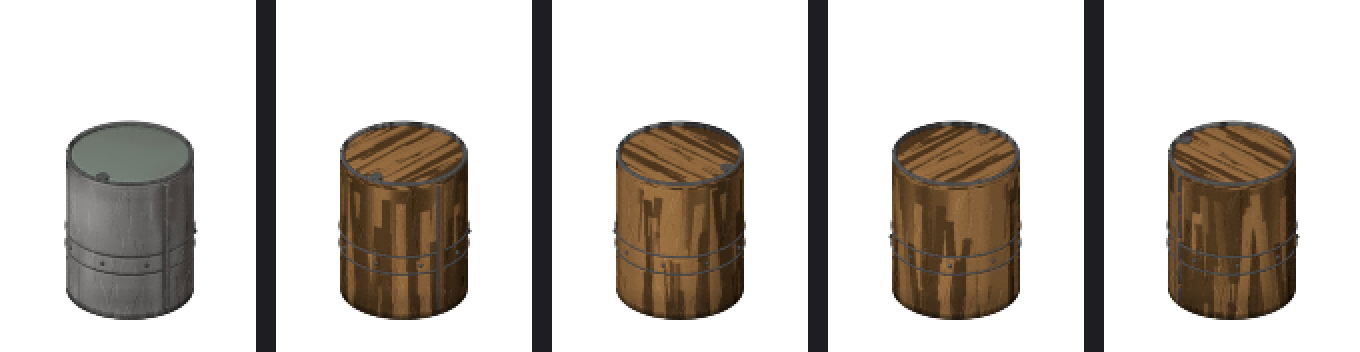
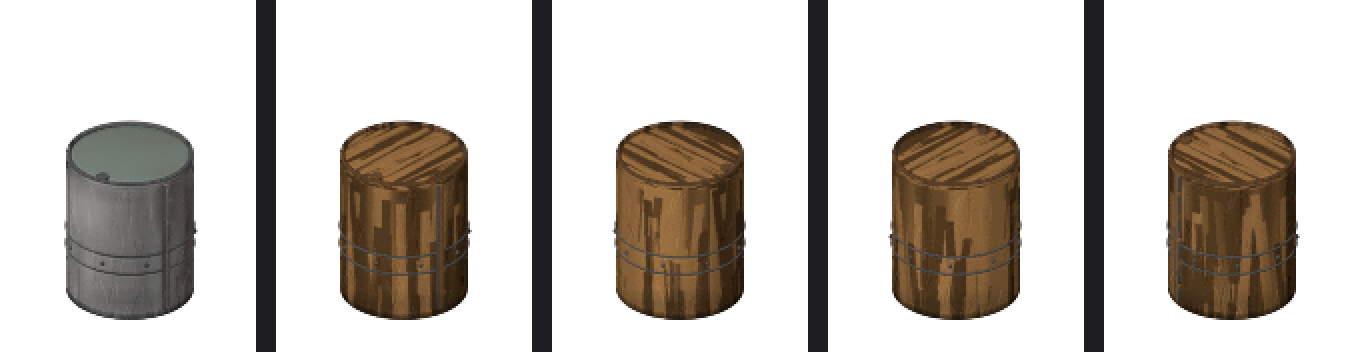
wooden drum: wooden rim via finer part roles; ours-only hero image
The drum recipe's single 'dark' role conflated four different things -- the
rim cap ring, the rolling grooves, the bung and the bolts -- and the chime is
a material-born shape (rolled steel), so the first wooden drum wore a grey
steel rim. build_drum now exposes 'cap' and 'bung' roles (defaulting into
'dark', so the steel set is untouched) and the wooden set maps rim, cap and
bung to wood while hoops, bolts and the seam strap stay iron.

The README hero now shows only this tool's output; vanilla art appears only
in the explicitly labelled comparison shots, with the fidelity table stating
how close each piece actually gets.

diff --git a/examples/metal_drum.py b/examples/metal_drum.py
@@ -210,6 +210,14 @@ def build_drum(mats: dict | None = None) -> list[bpy.types.Object]:
     strap_edge_mat = mats["strap_edge"]
     strap_face_mat = mats["strap_face"]
     lip_mat = mats["lip"]
+    # Finer roles a material swap needs, defaulting into "dark" so the steel
+    # set stays as it was. On the steel drum the cap ring, grooves, bung and
+    # bolts all share one dark paint -- but they are different THINGS: the cap
+    # ring is part of the rim (stave ends on a wooden barrel), the bung is a
+    # stopper (wood on wood), while grooves and bolts are iron either way.
+    # Conflating them was exactly the wooden drum's grey-rim mistake.
+    cap_mat = mats.get("cap", dark_mat)
+    bung_mat = mats.get("bung", dark_mat)
 
     r = DIAMETER / 2
     parts = []
@@ -241,7 +249,7 @@ def build_drum(mats: dict | None = None) -> list[bpy.types.Object]:
     # is what turned an earlier attempt's drum into a featureless dark disc.
     body = cylinder("drum_body", r, body_top - LID_RECESS,
                     (body_top - LID_RECESS) / 2, body_mat)
-    body.data.materials.append(dark_mat)
+    body.data.materials.append(cap_mat)
     # Select the cap by its normal, not by z. The primitive's location goes into the
     # object transform, so mesh coordinates are centred on the origin and a world-z
     # test (poly.center.z > body_top) matched nothing -- the lid silently rendered
@@ -297,7 +305,7 @@ def build_drum(mats: dict | None = None) -> list[bpy.types.Object]:
     # projection (screen-right = 64 px/m of x+y, screen-up = 32 px/m of y-x) to a
     # point at 85% of the lid radius toward the front-left.
     bung_z = body_top + 0.006
-    cylinder("drum_bung", 0.036, 0.012, bung_z, dark_mat,
+    cylinder("drum_bung", 0.036, 0.012, bung_z, bung_mat,
              smooth=False, verts=16).location = (0.075, -0.29, bung_z)
 
     # Bolt heads dotted along the lower groove, as in the sprite.

diff --git a/examples/wood_drum.py b/examples/wood_drum.py
@@ -46,15 +46,25 @@ def make_grain() -> Path:
 def wood_drum_materials() -> dict:
     """Stage 1 in oak. Paints borrow the wooden table's measured family; the
     class supplies everything else (wood hue correction, 0.40-1.60 swing,
-    0.22-0.78 ramp). Fittings keep the metal class untouched."""
+    0.22-0.78 ramp).
+
+    The role split matters more than the paints: the rim (chime + cap ring)
+    is a MATERIAL-BORN shape -- rolled steel on the drum, stave ends on a
+    barrel -- so it turns to dark wood here, and so does the bung (a wooden
+    stopper). Only the parts that are iron on a real barrel stay in the
+    metal class: the grooves-and-bolts role (the hoops) and the seam strap.
+    Mapping the whole rim to metal was the first draft's grey-halo mistake."""
     return {
         "body": F.forge_material("wooddrum_body", "wood", (0.405, 0.223, 0.075),
                                  texture_path=GRAIN_PATH, projection="UV"),
         "lid": F.forge_material("wooddrum_lid", "wood", (0.356, 0.193, 0.066),
                                 texture_path=GRAIN_PATH, projection="UV"),
+        # stave-end rim and cap ring: dark wood, not steel
+        "chime": F.forge_material("wooddrum_rim", "wood", (0.190, 0.108, 0.048)),
+        "cap": F.forge_material("wooddrum_cap", "wood", (0.165, 0.095, 0.044)),
+        "bung": F.forge_material("wooddrum_bung", "wood", (0.240, 0.135, 0.055)),
+        # the iron: hoops with their bolts, and the seam strap
         "dark": F.forge_material("wooddrum_hoop", "metal", (0.150, 0.152, 0.146)),
-        "chime": F.forge_material("wooddrum_chime", "metal",
-                                  (0.158, 0.161, 0.154)),
         "strap_edge": F.forge_material("wooddrum_strap_edge", "metal",
                                        (0.140, 0.140, 0.134)),
         "strap_face": F.forge_material("wooddrum_strap_face", "wood",

diff --git a/README.md b/README.md
@@ -4,9 +4,12 @@ Model custom Project Zomboid tiles in Blender and package them into a loadable m
 with the projection, lighting and tone taken from measurements of the game's own art
 rather than eyeballed.
 
-![Custom crates alternating with vanilla furniture on a vanilla floor](docs/preview.png)
+![Sprites produced by this tool: a brick wall corner, a couch, a steel drum, the same drum rebuilt in oak, a crate and a table](docs/showcase.png)
 
-*Every other object above is a crate rendered by this tool; the rest is vanilla art.*
+*Everything above is this tool's own output -- no vanilla art in this image.
+The goal is to sit convincingly NEXT to vanilla tiles, and the fidelity
+sections below measure honestly how close each piece gets; vanilla sprites
+appear only in the explicitly labelled comparison shots there.*
 
 ## What it does
 
@@ -46,7 +49,7 @@ uv run --python 3.12 --with pillow python -m pzforge.cli build build/crate_cells
 5. Check it against vanilla before shipping:
 
 ```bash
-uv run --python 3.12 --with pillow python -m pzforge.cli preview dist/MyTiles/42/media/texturepacks/mytiles_01.pack --out build/preview.png
+uv run --python 3.12 --with pillow python -m pzforge.cli preview dist/MyTiles/42/media/texturepacks/mytiles_01.pack --out build/preview.png   # scene mixing your tiles with vanilla, for the style gap check
 ```
 
 Copy `dist/MyTiles` into `~/Zomboid/mods` and enable it in the mod menu.
